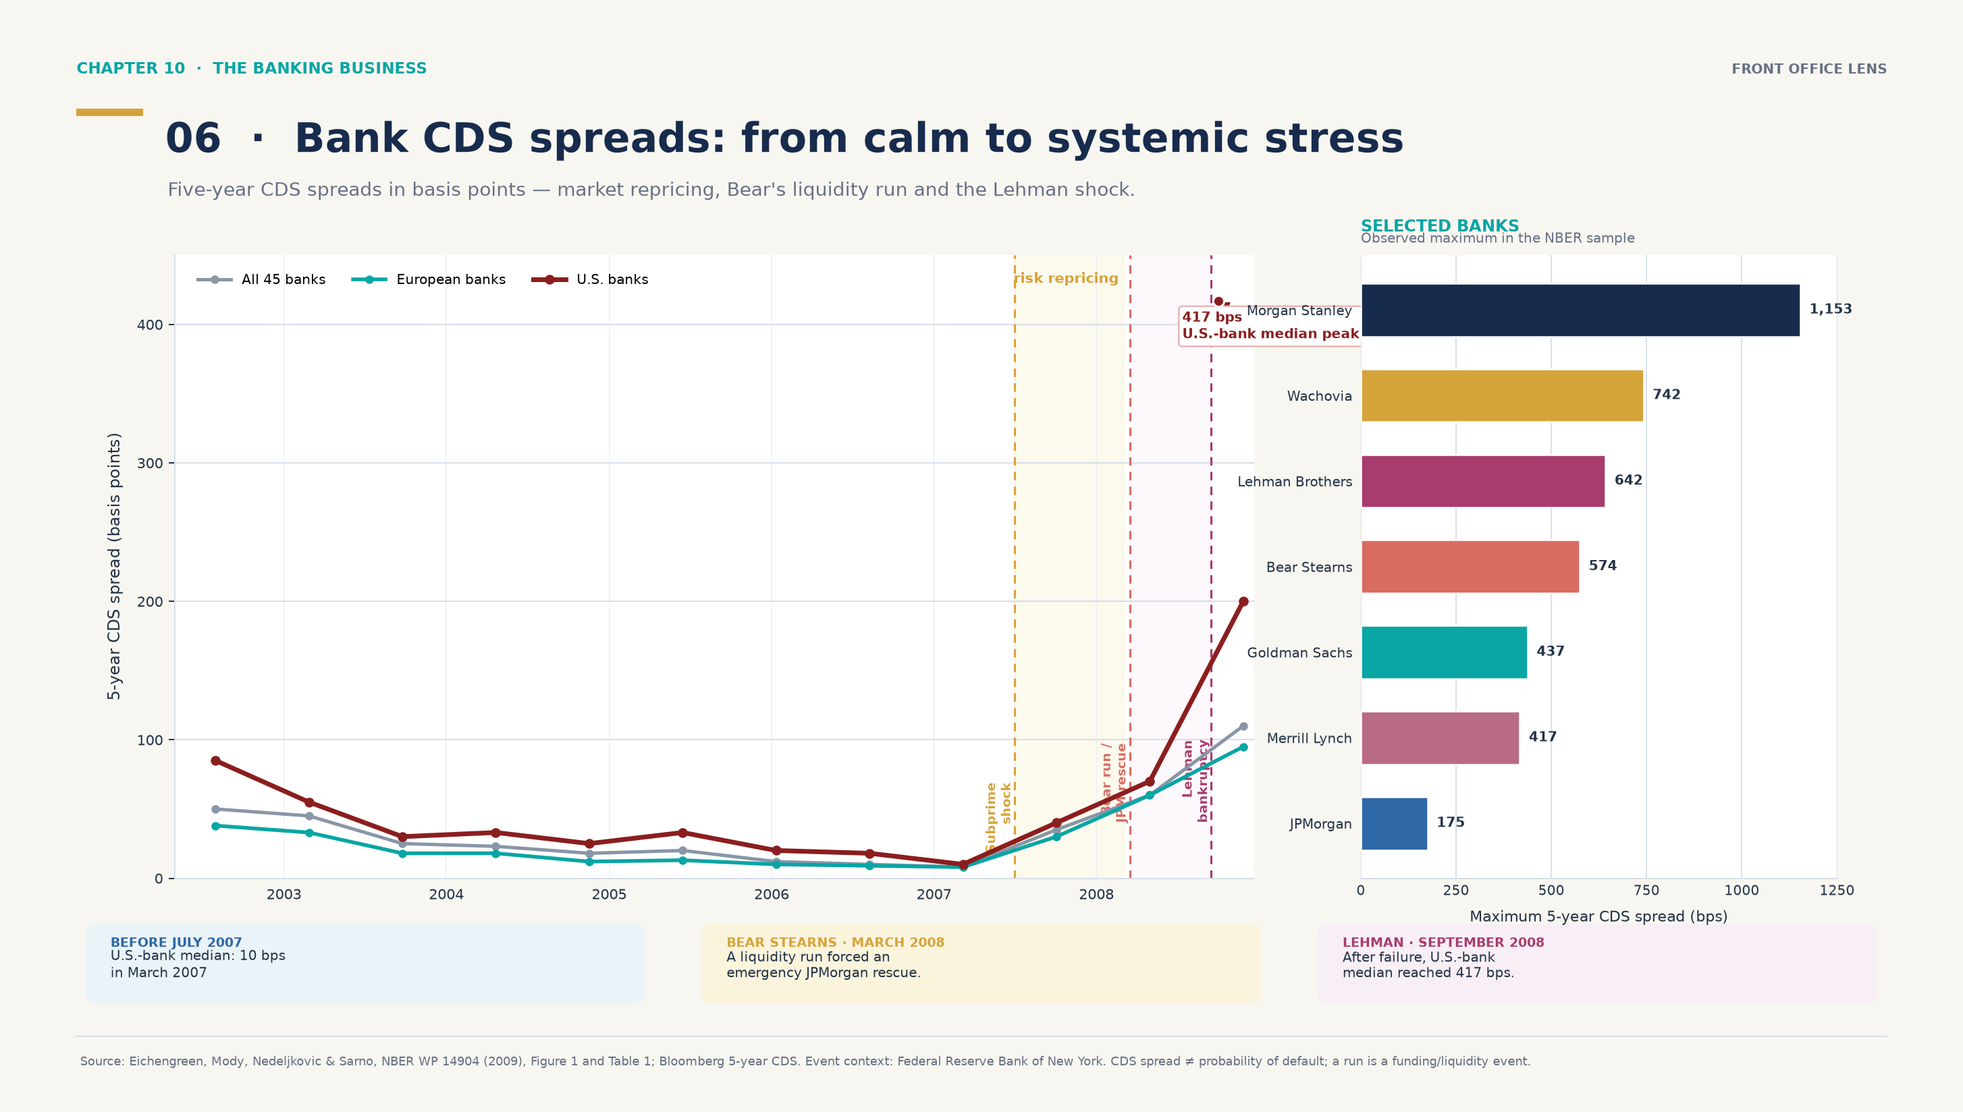
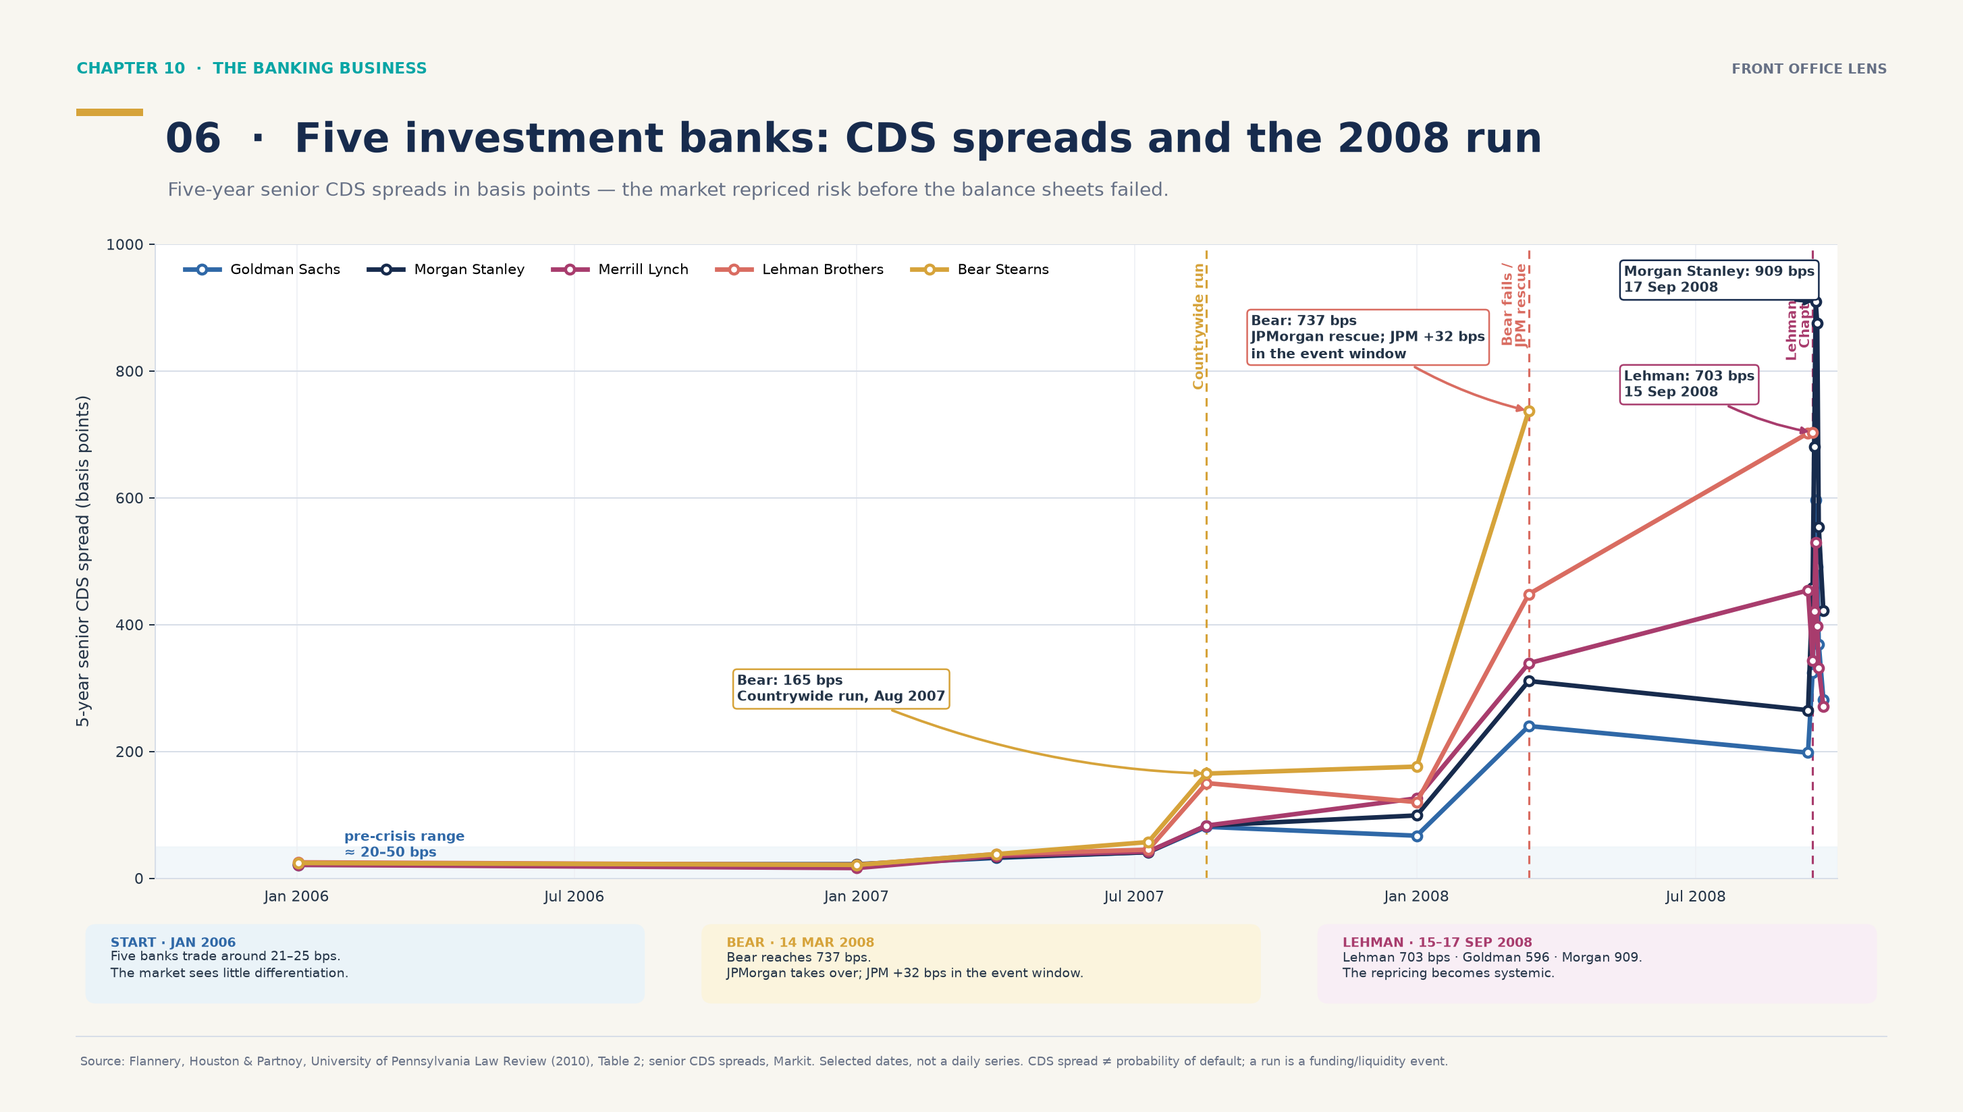
Refine bank CDS chart with five-bank event timeline

diff --git a/travaux-groupe/Money-Banking/ch10_front_office_illustrations/build_illustrations.py b/travaux-groupe/Money-Banking/ch10_front_office_illustrations/build_illustrations.py
@@ -332,117 +332,130 @@ def illustration_5():
 
 
 def illustration_6():
-    """Create a data-backed CDS stress chart with crisis events and bank comparison."""
+    """Create a zoomed five-bank CDS timeline with event arrows and key figures."""
     fig, ax = setup(
-        "06  ·  Bank CDS spreads: from calm to systemic stress",
-        "Five-year CDS spreads in basis points — market repricing, Bear's liquidity run and the Lehman shock.",
+        "06  ·  Five investment banks: CDS spreads and the 2008 run",
+        "Five-year senior CDS spreads in basis points — the market repriced risk before the balance sheets failed.",
     )
 
-    # NBER Working Paper 14904, Figure 1: exact observation dates and medians.
+    # Firm-level observations reproduced from Flannery, Houston & Partnoy (2010),
+    # University of Pennsylvania Law Review, Table 2. These are selected dates,
+    # not a fabricated daily interpolation; lines simply connect reported points.
     dates = [
-        datetime(2002, 7, 31), datetime(2003, 2, 26), datetime(2003, 9, 24),
-        datetime(2004, 4, 21), datetime(2004, 11, 17), datetime(2005, 6, 15),
-        datetime(2006, 1, 11), datetime(2006, 8, 9), datetime(2007, 3, 7),
-        datetime(2007, 10, 3), datetime(2008, 4, 30), datetime(2008, 11, 26),
+        datetime(2006, 1, 2), datetime(2007, 1, 1), datetime(2007, 4, 2),
+        datetime(2007, 7, 10), datetime(2007, 8, 17), datetime(2008, 1, 1),
+        datetime(2008, 3, 14), datetime(2008, 9, 12), datetime(2008, 9, 15),
+        datetime(2008, 9, 16), datetime(2008, 9, 17), datetime(2008, 9, 18),
+        datetime(2008, 9, 19), datetime(2008, 9, 22),
     ]
-    all_banks = [50, 45, 25, 23, 18, 20, 12, 10, 8, 35, 60, 110]
-    european_banks = [38, 33, 18, 18, 12, 13, 10, 9, 8, 30, 60, 95]
-    us_banks = [85, 55, 30, 33, 25, 33, 20, 18, 10, 40, 70, 200]
+    nan = float("nan")
+    bank_data = {
+        "Goldman Sachs": [21, 21, 32, 41, 81, 67, 240, 198, 324, 420, 596, 491, 369, 282],
+        "Morgan Stanley": [22, 22, 33, 41, 83, 99, 311, 265, 458, 681, 909, 875, 554, 422],
+        "Merrill Lynch": [21, 16, 35, 42, 83, 126, 339, 454, 343, 421, 530, 397, 331, 271],
+        "Lehman Brothers": [25, 21, 38, 45, 150, 120, 448, 702, 703, nan, nan, nan, nan, nan],
+        "Bear Stearns": [24, 21, 38, 57, 165, 176, 737, nan, nan, nan, nan, nan, nan, nan],
+    }
+    colors = {
+        "Goldman Sachs": BLUE,
+        "Morgan Stanley": NAVY,
+        "Merrill Lynch": MAGENTA,
+        "Lehman Brothers": CORAL,
+        "Bear Stearns": GOLD,
+    }
 
-    chart = fig.add_axes([0.085, 0.205, 0.555, 0.57], facecolor=WHITE)
+    chart = fig.add_axes([0.075, 0.205, 0.865, 0.58], facecolor=WHITE)
     chart.set_axisbelow(True)
     chart.grid(axis="y", color=LINE, linewidth=0.8)
     chart.grid(axis="x", color="#EEF1F5", linewidth=0.7)
-    chart.axvspan(datetime(2007, 7, 1), datetime(2008, 3, 1), color=PALE_GOLD, alpha=0.50, zorder=0)
-    chart.axvspan(datetime(2008, 3, 16), datetime(2008, 9, 15), color=PALE_MAGENTA, alpha=0.38, zorder=0)
+    chart.axhspan(0, 50, color=PALE_BLUE, alpha=0.62, zorder=0)
+    chart.text(datetime(2006, 2, 1), 34, "pre-crisis range\n≈ 20–50 bps", fontsize=8.2,
+               color=BLUE, weight="bold", linespacing=1.15)
 
-    all_line, = chart.plot(dates, all_banks, color="#8896A7", linewidth=2.0,
-                           marker="o", markersize=4, label="All 45 banks", zorder=4)
-    europe_line, = chart.plot(dates, european_banks, color=TEAL, linewidth=2.2,
-                              marker="o", markersize=4, label="European banks", zorder=4)
-    us_line, = chart.plot(dates, us_banks, color="#8B1E1E", linewidth=2.8,
-                          marker="o", markersize=4.8, label="U.S. banks", zorder=5)
+    lines = []
+    for name, values in bank_data.items():
+        line, = chart.plot(dates, values, color=colors[name], linewidth=2.7,
+                           marker="o", markersize=5.3, markerfacecolor=WHITE,
+                           markeredgewidth=1.8, label=name, zorder=5)
+        lines.append(line)
 
-    # NBER reports a 417 bp U.S.-bank median high in the week after Lehman.
-    peak_date = datetime(2008, 10, 1)
-    chart.scatter([peak_date], [417], s=42, color="#8B1E1E", edgecolor=WHITE,
-                  linewidth=1.2, zorder=7)
-    chart.annotate("417 bps\nU.S.-bank median peak",
-                   xy=(peak_date, 417), xytext=(datetime(2008, 7, 12), 390),
-                   fontsize=8.2, color="#8B1E1E", weight="bold",
-                   arrowprops=dict(arrowstyle="-|>", color="#8B1E1E", lw=1.1),
-                   bbox=dict(boxstyle="round,pad=0.25", facecolor=WHITE, edgecolor="#E7B6B6"))
-
-    events = [
-        (datetime(2007, 7, 1), "Subprime\nshock", GOLD),
-        (datetime(2008, 3, 16), "Bear run /\nJPM rescue", CORAL),
-        (datetime(2008, 9, 15), "Lehman\nbankruptcy", MAGENTA),
-    ]
-    for event_date, label, color in events:
-        chart.axvline(event_date, color=color, linewidth=1.25, linestyle=(0, (4, 3)), zorder=2)
-        chart.text(event_date, 18 if event_date.year == 2007 else 40, label,
-                   rotation=90, ha="right", va="bottom", fontsize=7.5,
-                   color=color, weight="bold")
-
-    chart.set_ylim(0, 450)
-    chart.set_xlim(datetime(2002, 5, 1), datetime(2008, 12, 20))
-    chart.set_ylabel("5-year CDS spread (basis points)", fontsize=9.5, color=INK, labelpad=8)
-    chart.set_yticks([0, 100, 200, 300, 400])
-    chart.tick_params(axis="y", labelsize=8.5, colors=INK)
-    chart.tick_params(axis="x", labelsize=8.5, colors=INK, length=0, pad=6)
-    chart.xaxis.set_major_locator(mdates.YearLocator())
-    chart.xaxis.set_major_formatter(mdates.DateFormatter("%Y"))
+    chart.set_ylim(0, 1000)
+    chart.set_xlim(datetime(2005, 10, 1), datetime(2008, 10, 1))
+    chart.set_yticks([0, 200, 400, 600, 800, 1000])
+    chart.set_ylabel("5-year senior CDS spread (basis points)", fontsize=10, color=INK, labelpad=8)
+    chart.tick_params(axis="y", labelsize=8.8, colors=INK)
+    chart.tick_params(axis="x", labelsize=8.8, colors=INK, length=0, pad=7)
+    chart.xaxis.set_major_locator(mdates.MonthLocator(bymonth=[1, 7]))
+    chart.xaxis.set_major_formatter(mdates.DateFormatter("%b %Y"))
+    for label in chart.get_xticklabels():
+        label.set_rotation(0)
     chart.spines["top"].set_visible(False)
     chart.spines["right"].set_visible(False)
     chart.spines["left"].set_color(LINE)
     chart.spines["bottom"].set_color(LINE)
-    chart.legend(handles=[all_line, europe_line, us_line], loc="upper left",
-                 frameon=False, fontsize=8.1, handlelength=2.4, ncol=3,
-                 bbox_to_anchor=(0.01, 0.99))
-    chart.text(datetime(2007, 10, 25), 430, "risk repricing", fontsize=8.3,
-               color=GOLD, weight="bold", ha="center")
+    chart.legend(handles=lines, loc="upper left", bbox_to_anchor=(0.01, 0.99),
+                 frameon=False, fontsize=8.4, handlelength=2.4, ncol=5)
 
-    # Selected maximum observations from NBER Table 1, 29 Jul 2002–28 Nov 2008.
-    bank_names = ["Morgan Stanley", "Wachovia", "Lehman Brothers", "Bear Stearns",
-                  "Goldman Sachs", "Merrill Lynch", "JPMorgan"]
-    max_spreads = [1153.09, 741.79, 641.91, 574.31, 437.37, 417.10, 174.98]
-    bar_colors = [NAVY, GOLD, MAGENTA, CORAL, TEAL, "#B96B85", BLUE]
-    bars = fig.add_axes([0.695, 0.205, 0.245, 0.57], facecolor=WHITE)
-    bars.barh(bank_names, max_spreads, color=bar_colors, edgecolor=WHITE, height=0.62)
-    bars.invert_yaxis()
-    bars.set_xlim(0, 1250)
-    bars.set_xticks([0, 250, 500, 750, 1000, 1250])
-    bars.set_xlabel("Maximum 5-year CDS spread (bps)", fontsize=8.8, color=INK, labelpad=7)
-    bars.tick_params(axis="x", labelsize=7.8, colors=INK, length=0, pad=4)
-    bars.tick_params(axis="y", labelsize=8.2, colors=INK, length=0, pad=5)
-    bars.grid(axis="x", color=LINE, linewidth=0.75)
-    bars.set_axisbelow(True)
-    for spine in ["top", "right", "left"]:
-        bars.spines[spine].set_visible(False)
-    bars.spines["bottom"].set_color(LINE)
-    bars.set_title("SELECTED BANKS", loc="left", fontsize=9.5, color=TEAL,
-                   weight="bold", pad=14)
-    bars.text(0, 1.015, "Observed maximum in the NBER sample", transform=bars.transAxes,
-              fontsize=7.8, color=MUTED, va="bottom")
-    for index, value in enumerate(max_spreads):
-        bars.text(value + 24, index, f"{value:,.0f}", va="center", fontsize=8.0,
-                  color=INK, weight="bold")
-    # Three professional takeaways instead of a block diagram.
+    # Crisis markers are explicit and point to reported CDS observations.
+    events = [
+        (datetime(2007, 8, 17), "Countrywide run", GOLD),
+        (datetime(2008, 3, 14), "Bear fails /\nJPM rescue", CORAL),
+        (datetime(2008, 9, 15), "Lehman files\nChapter 11", MAGENTA),
+    ]
+    for event_date, label, color in events:
+        chart.axvline(event_date, color=color, linewidth=1.25,
+                      linestyle=(0, (4, 3)), zorder=2)
+        chart.text(event_date, 970, label, rotation=90, ha="right", va="top",
+                   fontsize=7.8, color=color, weight="bold", linespacing=1.1)
+
+    def event_callout(text, xy, xytext, color):
+        chart.annotate(
+            text,
+            xy=xy,
+            xytext=xytext,
+            fontsize=8.2,
+            color=INK,
+            weight="bold",
+            linespacing=1.15,
+            arrowprops=dict(arrowstyle="-|>", color=color, lw=1.5,
+                            connectionstyle="arc3,rad=0.10"),
+            bbox=dict(boxstyle="round,pad=0.28", facecolor=WHITE,
+                      edgecolor=color, linewidth=1.0),
+            zorder=8,
+        )
+
+    event_callout(
+        "Bear: 165 bps\nCountrywide run, Aug 2007",
+        (datetime(2007, 8, 17), 165), (datetime(2006, 10, 15), 280), GOLD,
+    )
+    event_callout(
+        "Bear: 737 bps\nJPMorgan rescue; JPM +32 bps\nin the event window",
+        (datetime(2008, 3, 14), 737), (datetime(2007, 9, 15), 820), CORAL,
+    )
+    event_callout(
+        "Lehman: 703 bps\n15 Sep 2008",
+        (datetime(2008, 9, 15), 703), (datetime(2008, 5, 15), 760), MAGENTA,
+    )
+    event_callout(
+        "Morgan Stanley: 909 bps\n17 Sep 2008",
+        (datetime(2008, 9, 17), 909), (datetime(2008, 5, 15), 925), NAVY,
+    )
+
+    # Key figures make the chart readable without turning it into a block diagram.
     takeaway_cards = [
-        (0.65, "BEFORE JULY 2007", "U.S.-bank median: 10 bps\nin March 2007", PALE_BLUE, BLUE),
-        (5.72, "BEAR STEARNS · MARCH 2008", "A liquidity run forced an\nemergency JPMorgan rescue.", PALE_GOLD, GOLD),
-        (10.79, "LEHMAN · SEPTEMBER 2008", "After failure, U.S.-bank\nmedian reached 417 bps.", PALE_MAGENTA, MAGENTA),
+        (0.65, "START · JAN 2006", "Five banks trade around 21–25 bps.\nThe market sees little differentiation.", PALE_BLUE, BLUE),
+        (5.72, "BEAR · 14 MAR 2008", "Bear reaches 737 bps.\nJPMorgan takes over; JPM +32 bps in the event window.", PALE_GOLD, GOLD),
+        (10.79, "LEHMAN · 15–17 SEP 2008", "Lehman 703 bps · Goldman 596 · Morgan 909.\nThe repricing becomes systemic.", PALE_MAGENTA, MAGENTA),
     ]
     for x, title, body, fill, accent in takeaway_cards:
         ax.add_patch(FancyBboxPatch((x, 0.84), 4.55, 0.60,
                                     boxstyle="round,pad=0.02,rounding_size=0.08",
                                     facecolor=fill, edgecolor=fill))
         ax.text(x + 0.18, 1.28, title, fontsize=7.6, color=accent, weight="bold")
-        ax.text(x + 0.18, 1.03, body, fontsize=7.8, color=INK, linespacing=1.2)
+        ax.text(x + 0.18, 1.03, body, fontsize=7.7, color=INK, linespacing=1.2)
 
-    footer(ax, "Source: Eichengreen, Mody, Nedeljkovic & Sarno, NBER WP 14904 (2009), Figure 1 and Table 1; Bloomberg 5-year CDS. Event context: Federal Reserve Bank of New York. CDS spread ≠ probability of default; a run is a funding/liquidity event.")
+    footer(ax, "Source: Flannery, Houston & Partnoy, University of Pennsylvania Law Review (2010), Table 2; senior CDS spreads, Markit. Selected dates, not a daily series. CDS spread ≠ probability of default; a run is a funding/liquidity event.")
     save(fig, "06_bank_cds_spreads_and_funding_stress.png")
-
 
 def main():
     illustration_1()

diff --git a/travaux-groupe/Money-Banking/ch10_front_office_illustrations/README.md b/travaux-groupe/Money-Banking/ch10_front_office_illustrations/README.md
@@ -13,7 +13,7 @@ Ce dossier rassemble **six illustrations candidates** pour les slides 9–10 du 
 | [03 — cash-flows et protection d’un CDS](output/03_cds_cashflows_and_protection.png) | Prime, événement de crédit, recovery, LGD et paiement contingent | Slide 10 : transfert et couverture du risque de crédit |
 | [04 — crise, stress de liquidité et réponse prudentielle](output/04_crisis_to_basel_timeline.png) | Faiblesse d’origination → complexité → levier → défauts → liquidité/contagion → Basel | Slide 10 : relier le front office à la crise et à la régulation |
 | [05 — croissance du subprime : graphique combiné](output/05_subprime_growth_combo_chart.png) | Barres = volume annuel ; courbe = part des nouvelles origines hypothécaires | Slide 9 : montrer la croissance du marché sans schéma en cubes |
-| [06 — CDS bancaires et stress de financement](output/06_bank_cds_spreads_and_funding_stress.png) | Médianes CDS US/Europe + comparaison des maxima observés pour plusieurs banques | Slide 10 : relier risque de crédit, run de Bear et choc Lehman |
+| [06 — cinq banques, spreads CDS et run de 2008](output/06_bank_cds_spreads_and_funding_stress.png) | Cinq lignes colorées, événements fléchés et niveaux clés de Goldman, Morgan Stanley, Merrill, Lehman et Bear | Slide 10 : relier pricing du risque, funding et choc Lehman |
 
 Les six fichiers sont au format **16:9**, avec un style cohérent et une hiérarchie adaptée à une slide de cours : titre, mécanisme central ou série de données, exemple chiffré, puis une note de prudence en bas de page.
 
@@ -101,23 +101,29 @@ Le graphique est plus simple à lire qu’un schéma de cubes : il montre imméd
 
 **Source des données :** Ashcraft & Schuermann, *Understanding the Securitization of Subprime Mortgage Credit*, Federal Reserve Bank of New York Staff Report no. 318 (2008), Table 1 ; données d’origination Inside Mortgage Finance. Les parts sont calculées à partir de cette table, et non lues approximativement sur le graphique de référence.
 
-## 06 — Bank CDS spreads: from calm to systemic stress
+## 06 — Five investment banks: CDS spreads and the 2008 run
 
-![Illustration 6 — CDS bancaires et stress de financement](output/06_bank_cds_spreads_and_funding_stress.png)
+![Illustration 6 — cinq banques d’investissement, spreads CDS et run de 2008](output/06_bank_cds_spreads_and_funding_stress.png)
 
-Ce graphique traite la crise de 2008 par le **pricing du risque de crédit** plutôt que par des cubes :
+Cette version est volontairement **zoomée sur cinq banques** et utilise cinq couleurs constantes : **Goldman Sachs, Morgan Stanley, Merrill Lynch, Lehman Brothers et Bear Stearns**.
 
-- à gauche, les médianes des spreads CDS 5 ans pour les **45 banques**, les banques européennes et les banques américaines ;
-- les bandes verticales marquent le choc subprime, le run de Bear Stearns et la faillite de Lehman ;
-- à droite, les maxima observés dans l’échantillon pour **Morgan Stanley, Wachovia, Lehman Brothers, Bear Stearns, Goldman Sachs, Merrill Lynch et JPMorgan**.
+Le graphique donne une vraie chronologie de marché :
 
-Le message est lisible : le risque de crédit bancaire est faible avant juillet 2007, puis les spreads se tendent. Après le run de Bear Stearns et surtout la faillite de Lehman, les banques américaines évoluent dans un régime de stress systémique. La médiane des banques américaines atteint **417 bps** dans la semaine suivant Lehman selon le texte de la source, tandis que le point de fin novembre 2008 de la table est à **200 bps**.
+- en janvier 2006, les cinq spreads sont proches de **21–25 bps** ; le marché différencie encore peu les banques ;
+- en août 2007, après le run de Countrywide, Bear Stearns atteint **165 bps** ;
+- le 14 mars 2008, Bear Stearns atteint **737 bps** et JPMorgan reprend la banque ; le spread de JPMorgan augmente de **32 bps** dans la fenêtre d’événement étudiée ;
+- le 15 septembre 2008, Lehman dépose son bilan à **703 bps** ;
+- le 17 septembre, Morgan Stanley atteint **909 bps**, Goldman Sachs **596 bps** et Merrill Lynch **530 bps** dans la table de référence.
 
-Les barres de droite sont des **maxima sur la période de l’échantillon 2002–2008**, pas des niveaux observés le même jour et pas des probabilités de défaut. Un spread CDS est le prix de marché d’une protection contre un risque de crédit ; il ne se convertit pas automatiquement en probabilité de défaut. De même, le CDS signale la revalorisation du risque pendant un run, mais le run lui-même est un événement de **financement et de liquidité**.
+Les flèches et les lignes verticales ne sont pas décoratives : elles relient chaque événement à un **niveau de spread observable**. L’échelle linéaire **0–1 000 bps** est choisie pour conserver à la fois la zone pré-crise et l’explosion de septembre 2008. Les lignes relient des dates publiées dans la table ; elles ne prétendent pas reconstituer chaque cotation quotidienne.
 
-**Source des données :** Eichengreen, Mody, Nedeljkovic & Sarno, *How the Subprime Crisis Went Global: Evidence from Bank Credit Default Swap Spreads*, NBER Working Paper 14904 (2009), Figure 1 et Table 1 ; données Bloomberg. Le contexte du run de Bear Stearns et de la faillite de Lehman est recoupé avec la Federal Reserve Bank of New York.
+Le message Sales/Trading est le suivant : le risque devient d’abord **différencié** — Bear puis Lehman s’écartent — avant de devenir **systémique** après Lehman, lorsque Morgan Stanley, Goldman Sachs et Merrill Lynch repricent simultanément leur risque de crédit et de financement.
 
-**Pourquoi elle est pertinente pour la slide 10 :** elle donne un vrai angle Sales/Trading : le marché transforme progressivement une inquiétude sur les actifs en spread de crédit, en risque de financement et en risque de contrepartie. Elle permet de parler de la contagion sans confondre spread, défaut et run bancaire.
+Un spread CDS est un **prix de protection de crédit**, pas automatiquement une probabilité de défaut. Le run est un événement de financement et de liquidité ; le CDS enregistre la revalorisation du risque et de la protection demandée par le marché.
+
+**Source des données :** Flannery, Houston & Partnoy, *Credit Default Swap Spreads as Viable Substitutes for Credit Ratings*, University of Pennsylvania Law Review (2010), Table 2 ; données Markit. Les événements et variations autour de Bear Stearns, Lehman et JPMorgan sont décrits dans la même étude.
+
+**Pourquoi elle est pertinente pour la slide 10 :** elle transforme la crise en une lecture de marché concrète : un desk observe le spread, la vitesse de widening, la comparaison entre noms, le risque de contrepartie et l’effet d’un sauvetage sur le pricing.
 
 ## Quelle combinaison retenir pour deux slides ?
 
@@ -149,7 +155,7 @@ Les illustrations **01** et **02** restent utiles en réserve si la slide 9 doit
 - [Guide français des slides 9–10](../CH10-SLIDES-9-10-FRONT-OFFICE-FR.md)
 - [Financial Crisis Inquiry Commission Report](https://www.govinfo.gov/content/pkg/GPO-FCIC/pdf/GPO-FCIC.pdf)
 - [Federal Reserve History — The Great Recession and Its Aftermath](https://www.federalreservehistory.org/essays/great-recession-and-its-aftermath)
-- [Eichengreen et al. — NBER Working Paper 14904, bank CDS spreads](https://www.nber.org/system/files/working_papers/w14904/w14904.pdf)
+- [Flannery, Houston & Partnoy — CDS spreads and credit ratings](https://www.law.upenn.edu/live/files/22-flannery158upalrev20852010pdf)
 - [Federal Reserve Bank of New York — Bear Stearns and Lehman context](https://www.newyorkfed.org/newsevents/speeches/2010/bax100901)
 - [Basel Committee — Revisions to the Securitisation Framework](https://www.bis.org/bcbs/publ/d374.htm)
 - [Basel Committee — Basel III: Post-Crisis Reforms](https://www.bis.org/bcbs/publ/d424.htm)
